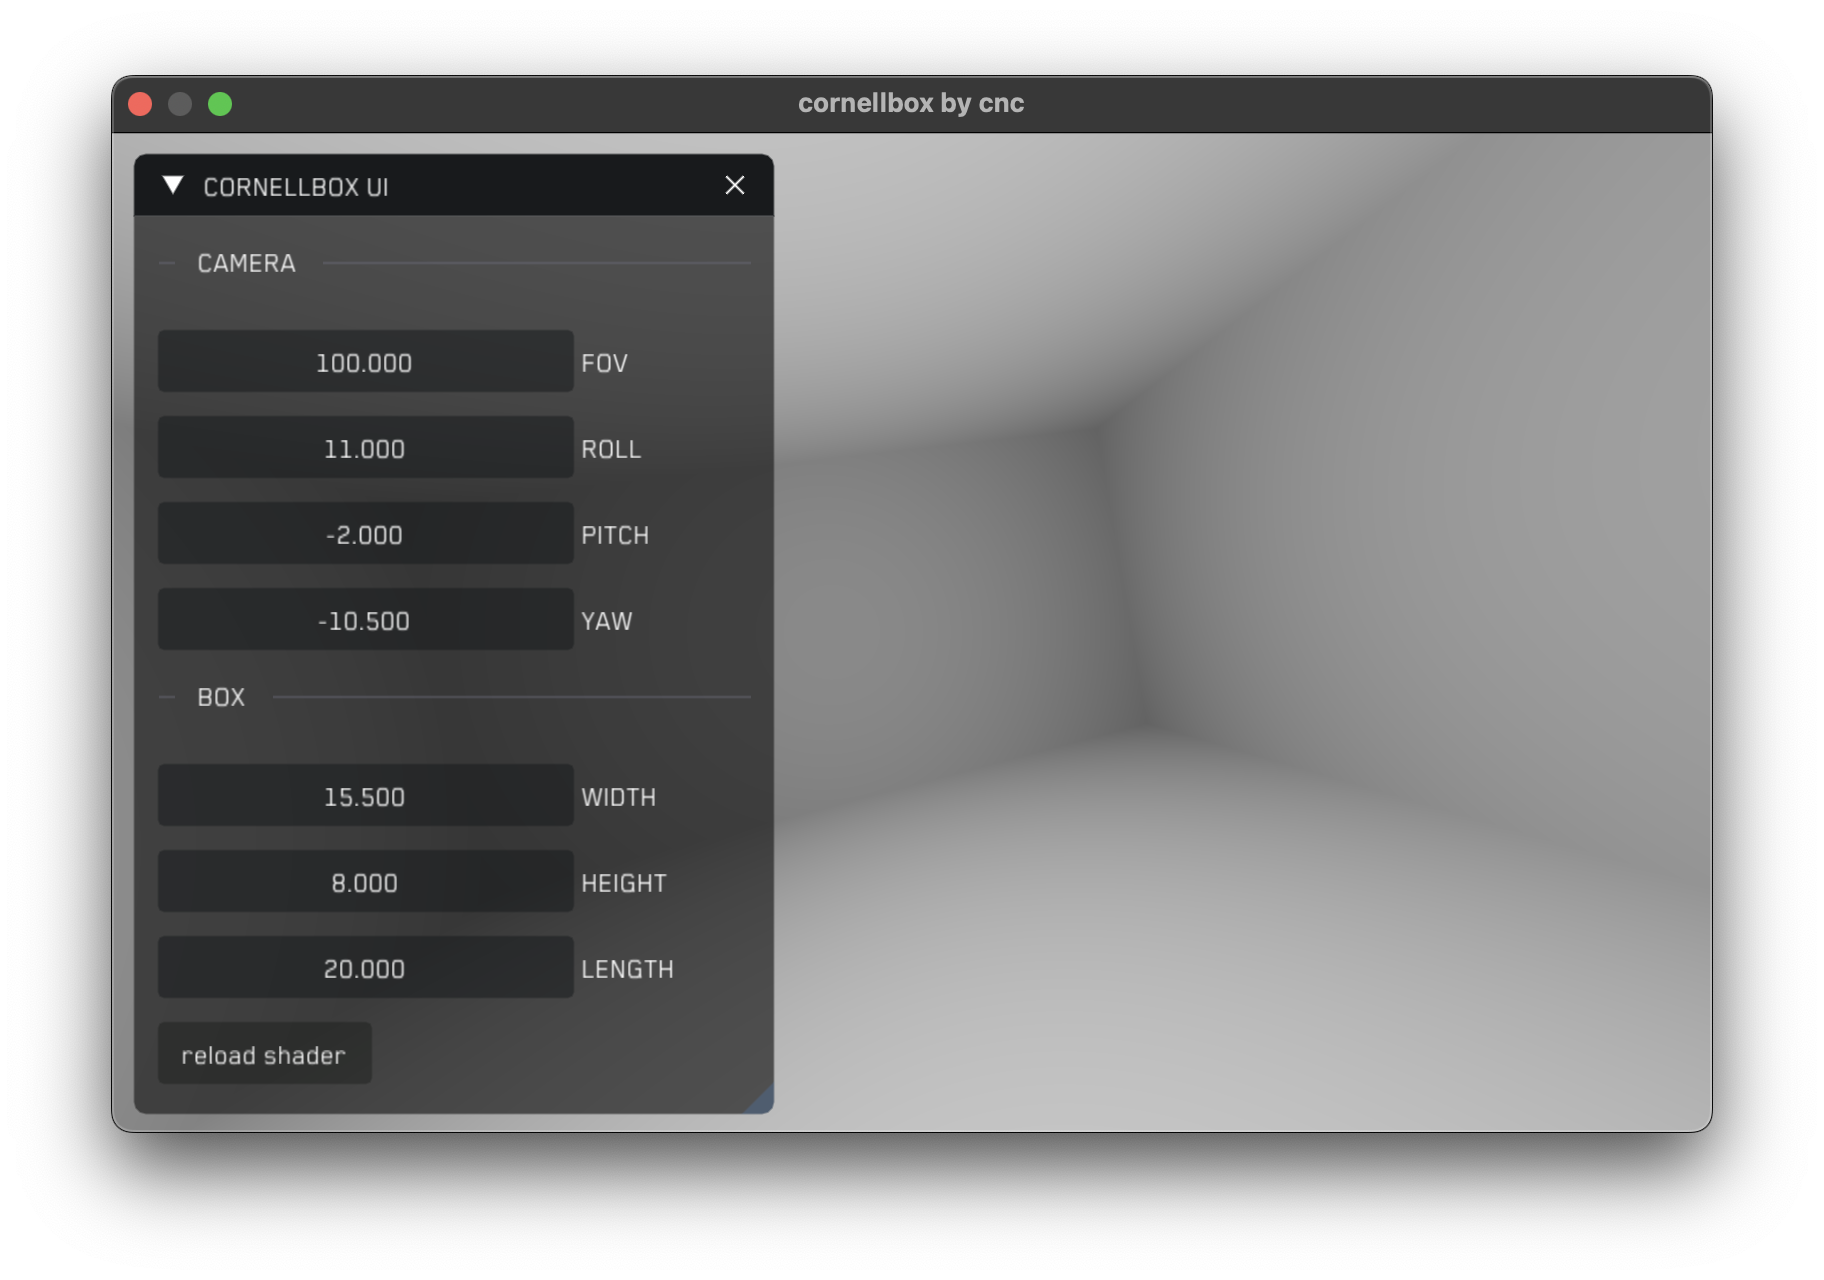
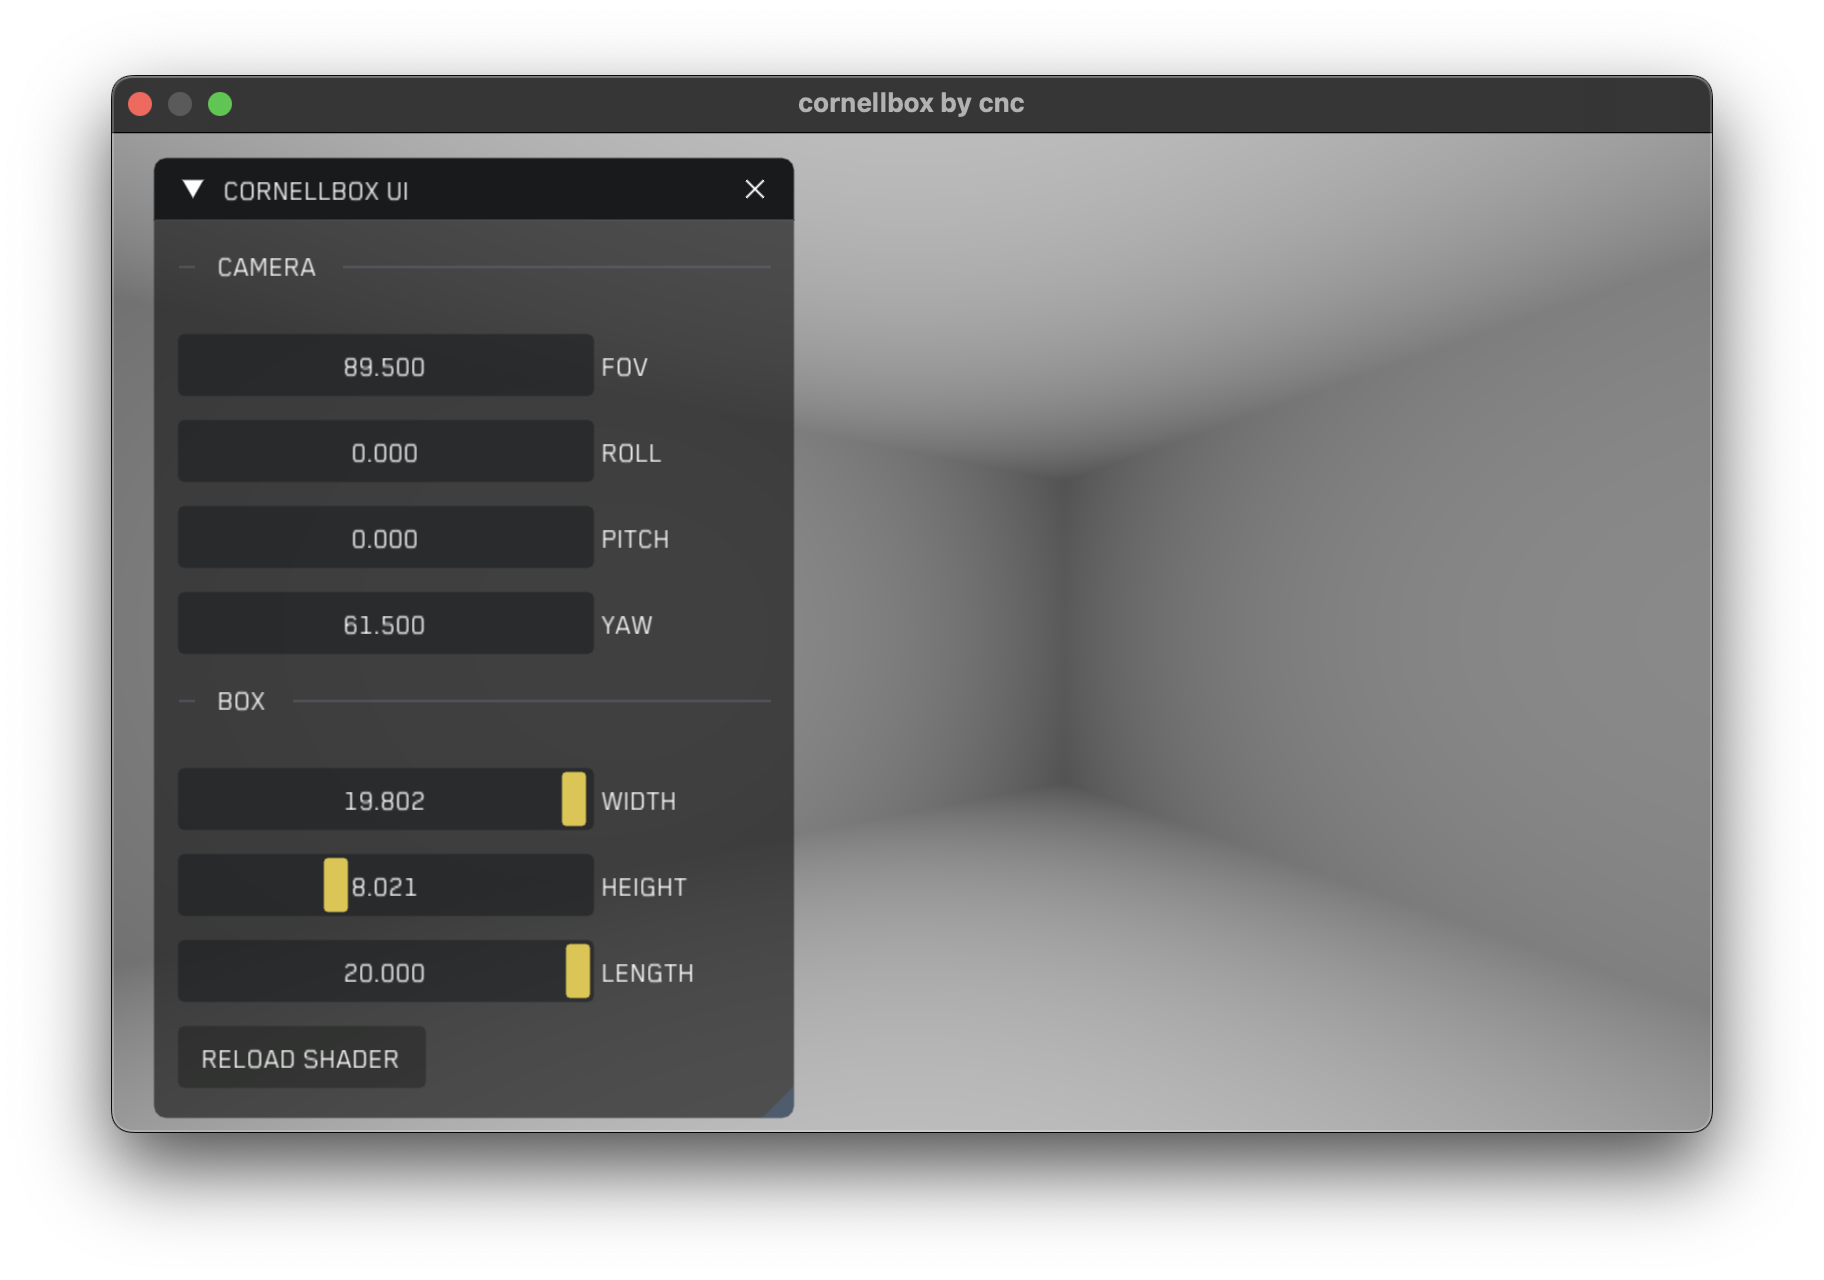
some ui tweaks

diff --git a/CNC_Userinterface.cpp b/CNC_Userinterface.cpp
@@ -42,7 +42,7 @@ void CustomizeUi()
     colors[ImGuiCol_BorderShadow]           = ImVec4(0.00f, 0.00f, 0.00f, 0.00f);
     colors[ImGuiCol_FrameBg]                = ImVec4(0.09f, 0.10f, 0.11f, 0.54f);
     colors[ImGuiCol_FrameBgHovered]         = ImVec4(0.17f, 0.18f, 0.20f, 0.40f);
-    colors[ImGuiCol_FrameBgActive]          = ImVec4(0.08f, 0.47f, 0.54f, 0.67f);
+    colors[ImGuiCol_FrameBgActive]          = ImVec4(0.45f, 0.45f, 0.45f, 0.67f);
     colors[ImGuiCol_TitleBg]                = ImVec4(0.04f, 0.04f, 0.04f, 1.00f);
     colors[ImGuiCol_TitleBgActive]          = ImVec4(0.09f, 0.10f, 0.11f, 1.00f);
     colors[ImGuiCol_TitleBgCollapsed]       = ImVec4(0.00f, 0.00f, 0.00f, 0.51f);
@@ -52,8 +52,8 @@ void CustomizeUi()
     colors[ImGuiCol_ScrollbarGrabHovered]   = ImVec4(0.41f, 0.41f, 0.41f, 1.00f);
     colors[ImGuiCol_ScrollbarGrabActive]    = ImVec4(0.51f, 0.51f, 0.51f, 1.00f);
     colors[ImGuiCol_CheckMark]              = ImVec4(0.23f, 0.82f, 0.72f, 1.00f);
-    colors[ImGuiCol_SliderGrab]             = ImVec4(0.24f, 0.88f, 0.66f, 1.00f);
-    colors[ImGuiCol_SliderGrabActive]       = ImVec4(0.39f, 0.81f, 0.64f, 1.00f);
+    colors[ImGuiCol_SliderGrab]             = ImVec4(0.88f, 0.77f, 0.24f, 1.00f);
+    colors[ImGuiCol_SliderGrabActive]       = ImVec4(0.88f, 0.77f, 0.24f, 1.00f);
     colors[ImGuiCol_Button]                 = ImVec4(0.08f, 0.09f, 0.08f, 0.40f);
     colors[ImGuiCol_ButtonHovered]          = ImVec4(0.49f, 0.49f, 0.49f, 1.00f);
     colors[ImGuiCol_ButtonActive]           = ImVec4(0.27f, 0.28f, 0.30f, 1.00f);
@@ -105,23 +105,23 @@ void ShowCornellboxUi( bool* showCornellbox, Application* application )
 
     ImGui::SeparatorText("CAMERA");
     ImGui::Spacing();
-    ImGui::DragFloat( "FOV",       &camera->m_fov,  0.5f,  20.0f,  120.0f, "%.3f" );
-    ImGui::DragFloat( "ROLL",      &roll,           0.5f, -90.0f,   90.0f, "%.3f" );
-    ImGui::DragFloat( "PITCH",     &pitch,          0.5f, -90.0f,   90.0f, "%.3f" );
-    ImGui::DragFloat( "YAW",       &yaw,            0.5f, -90.0f,   90.0f, "%.3f" );
+    ImGui::DragFloat( "FOV",      &camera->m_fov, 0.5f,  20.0f,  120.0f );
+    ImGui::DragFloat( "ROLL",     &roll,          0.5f, -90.0f,   90.0f );
+    ImGui::DragFloat( "PITCH",    &pitch,         0.5f, -90.0f,   90.0f );
+    ImGui::DragFloat( "YAW",      &yaw,           0.5f, -90.0f,   90.0f );
 
     ImGui::SeparatorText("BOX");
     ImGui::Spacing();
-    ImGui::DragFloat( "WIDTH",     &box->m_width,   0.5f,  1.0f,   20.0f, "%.3f" );
-    ImGui::DragFloat( "HEIGHT",    &box->m_height,  0.5f,  1.0f,   20.0f, "%.3f" );
-    ImGui::DragFloat( "LENGTH",    &box->m_length,  0.5f,  1.0f,   20.0f, "%.3f" );
+    ImGui::SliderFloat( "WIDTH",  &box->m_width,  1.0f,   20.0f );
+    ImGui::SliderFloat( "HEIGHT", &box->m_height, 1.0f,   20.0f );
+    ImGui::SliderFloat( "LENGTH", &box->m_length, 1.0f,   20.0f );
 
     camera->m_roll  = toRadians( roll );
     camera->m_pitch = toRadians( pitch );
     camera->m_yaw   = toRadians( yaw );
     camera->m_position[2] = posZ;
 
-    if( ImGui::Button( "reload shader" ) )
+    if( ImGui::Button( "RELOAD SHADER" ) )
     {
         Platform* platform = application->m_platform;
         platform->reloadShaders( application->m_renderer );
